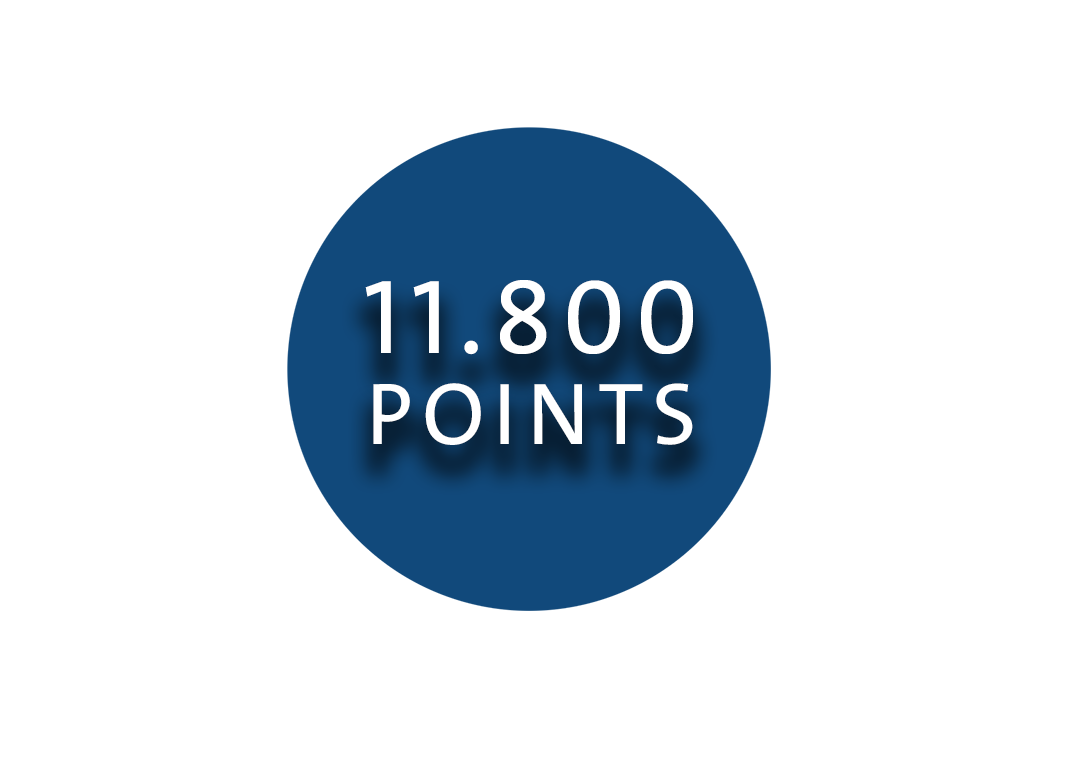
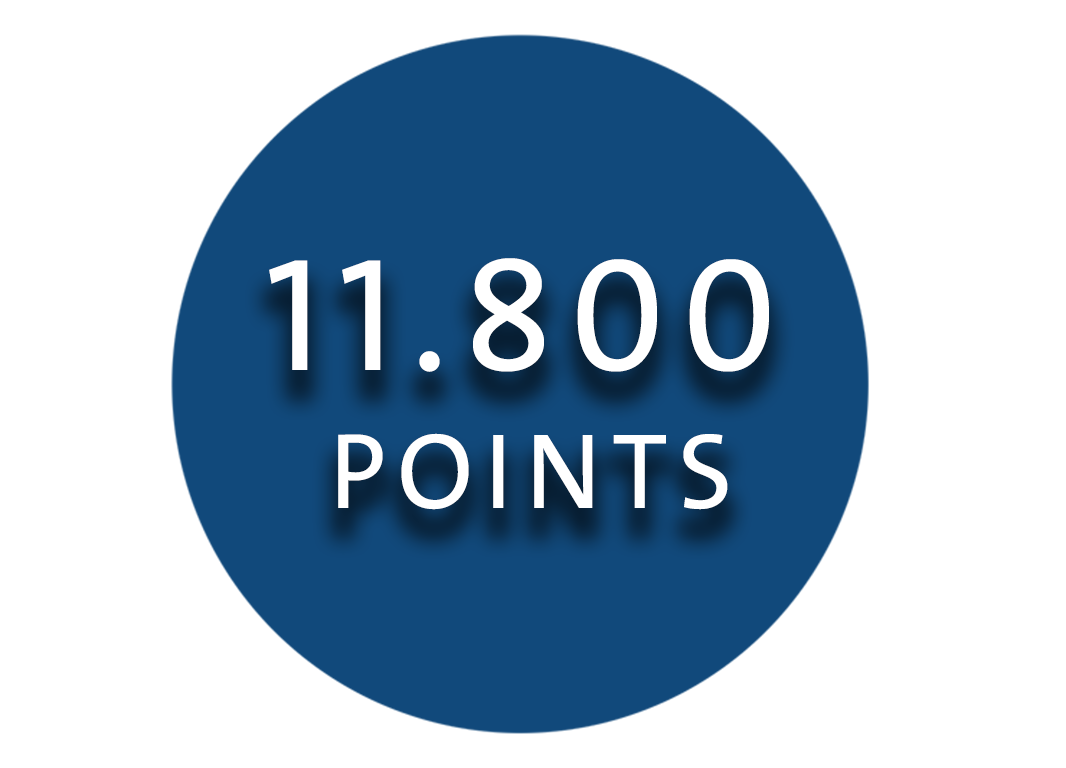
profile

diff --git a/sass/style.scss b/sass/style.scss
@@ -41,15 +41,16 @@ p {
 
 // PROFILE 
 :root {
-    --buttonColor: #6eb556;
+    --buttonGreen: #6eb556;
+    --buttonBlue: #3386C3;
 }
 
 .profile{
     float: right;
     background-color: #e4e4e4;
-    margin-top: 2%;
+    margin-top: -5px;
     width: 40%;
-    height: 650px;
+    height: 688px;
     &__blue {
         height: auto;
         background-color: #11497b;
@@ -94,10 +95,12 @@ p {
         cursor: pointer;
         letter-spacing: 1px;
         color: white;
-        background-color: #11497b;
-        
+        background-color: #3386C3;
         margin: 3%;
         margin-left: 40%;
+    }
+    &__seeall:hover {
+        background-color: #0068b4;
     }
     &__arrow {
         border: solid white;
@@ -108,16 +111,16 @@ p {
         -webkit-transform: rotate(45deg);
         margin-left: 5%;
     }
-     &__point{
+     &__points{
         margin: 30px;
-        font-size: 30px;
+        font-size: 30px; 
     }
     &__amount {
-        font-family: head-font;
-        font-size: 20px;  
+        width: 25%;
+        float: right;
     }
-     &__button {
-        margin-top: 7%;
+     &__buttonDonate {
+        margin-top: 6%;
         width: 135px;
         font-size: 14px; 
         color: white;
@@ -126,30 +129,49 @@ p {
         cursor: pointer; //musen ændres til en lille hånd
         letter-spacing: 1px; 
         //border: none;
-        margin-left: 5%;
-         
+        margin-left: 10px;
         position: relative; // arrow
-        background-color: var(--buttonColor);
+        background-color: var(--buttonGreen);
     }
-    &__button:hover {
-        --buttonColor: #4aa22c;
-        background-color: var(--buttonColor);
+     &__buttonDonate:hover {
+        --buttonGreen: #4aa22c;
+        background-color: var(--buttonGreen);
+    }
+    &__buttonDonate:after {
+        left: 100%;
+        top: 50%;
+        border: solid transparent;
+        content: "";
+        position: absolute; 
+        border-width: 18px;
+        margin-top: -18px;
+        border-left-color: var(--buttonGreen);
+    }
+    &__buttonPoint {
+        margin-top: 6%;
+        margin-right: 10px;;
+        width: 135px;
+        font-size: 14px; 
+        color: white;
+        padding: 9px; 
+        font-family: head-font;
+        cursor: pointer;
+        letter-spacing: 1px; 
+        margin-left: 10px;
+        background-color: var(--buttonBlue);
+    }
+    &__buttonPoint:hover {
+        --buttonBlue: #0068b4;
+        background-color: var(--buttonBlue);
     }
 }
 
-.donate:after {
-    left: 100%;
-    top: 50%;
-    border: solid transparent;
-    content: "";
-    position: absolute;
-    //border-radius: 5px; 
-    
-    border-left-color: #6eb556;
-    border-width: 18px;
-    margin-top: -18px;
-        //border-radius: 5px;
-    border-left-color: var(--buttonColor);
+.try {
+    display: inline-block;
+}
+
+.point {
+    display: inline-block;
 }
 
 // SLIDER JUMP IN START//
@@ -367,17 +389,6 @@ p {
 	cursor:pointer;  
 	color: white;
 	border-bottom: 4px solid #127bbd;
-}
-
-/* ---- Badges styles  ----  */
-
-.badge {
-	width: 17%;
-	margin: 20px;
-}
-
-.row {
-	margin: 20px;
 }
 
 

diff --git a/css/style.css b/css/style.css
@@ -27,14 +27,15 @@ p {
     width: 100%; }
 
 :root {
-  --buttonColor: #6eb556; }
+  --buttonGreen: #6eb556;
+  --buttonBlue: #3386C3; }
 
 .profile {
   float: right;
   background-color: #e4e4e4;
-  margin-top: 2%;
+  margin-top: -5px;
   width: 40%;
-  height: 650px; }
+  height: 688px; }
   .profile__blue {
     height: auto;
     background-color: #11497b;
@@ -72,9 +73,11 @@ p {
     cursor: pointer;
     letter-spacing: 1px;
     color: white;
-    background-color: #11497b;
+    background-color: #3386C3;
     margin: 3%;
     margin-left: 40%; }
+  .profile__seeall:hover {
+    background-color: #0068b4; }
   .profile__arrow {
     border: solid white;
     border-width: 0 3px 3px 0;
@@ -83,14 +86,14 @@ p {
     transform: rotate(45deg);
     -webkit-transform: rotate(45deg);
     margin-left: 5%; }
-  .profile__point {
+  .profile__points {
     margin: 30px;
     font-size: 30px; }
   .profile__amount {
-    font-family: head-font;
-    font-size: 20px; }
-  .profile__button {
-    margin-top: 7%;
+    width: 25%;
+    float: right; }
+  .profile__buttonDonate {
+    margin-top: 6%;
     width: 135px;
     font-size: 14px;
     color: white;
@@ -98,23 +101,42 @@ p {
     font-family: head-font;
     cursor: pointer;
     letter-spacing: 1px;
-    margin-left: 5%;
+    margin-left: 10px;
     position: relative;
-    background-color: var(--buttonColor); }
-  .profile__button:hover {
-    --buttonColor: #4aa22c;
-    background-color: var(--buttonColor); }
+    background-color: var(--buttonGreen); }
+  .profile__buttonDonate:hover {
+    --buttonGreen: #4aa22c;
+    background-color: var(--buttonGreen); }
+  .profile__buttonDonate:after {
+    left: 100%;
+    top: 50%;
+    border: solid transparent;
+    content: "";
+    position: absolute;
+    border-width: 18px;
+    margin-top: -18px;
+    border-left-color: var(--buttonGreen); }
+  .profile__buttonPoint {
+    margin-top: 6%;
+    margin-right: 10px;
+    width: 135px;
+    font-size: 14px;
+    color: white;
+    padding: 9px;
+    font-family: head-font;
+    cursor: pointer;
+    letter-spacing: 1px;
+    margin-left: 10px;
+    background-color: var(--buttonBlue); }
+  .profile__buttonPoint:hover {
+    --buttonBlue: #0068b4;
+    background-color: var(--buttonBlue); }
 
-.donate:after {
-  left: 100%;
-  top: 50%;
-  border: solid transparent;
-  content: "";
-  position: absolute;
-  border-left-color: #6eb556;
-  border-width: 18px;
-  margin-top: -18px;
-  border-left-color: var(--buttonColor); }
+.try {
+  display: inline-block; }
+
+.point {
+  display: inline-block; }
 
 #hi {
   max-width: 790px;
@@ -226,8 +248,11 @@ p {
 .timeframe {
   margin: 20px; }
 
+.radiobtn {
   display: inline-block; }
 
+.radio {
+  margin: 20px; }
 
 #topics {
   width: 100%;
@@ -285,14 +310,6 @@ p {
   cursor: pointer;
   color: white;
   border-bottom: 4px solid #127bbd; }
-
-/* ---- Badges styles  ----  */
-.badge {
-  width: 17%;
-  margin: 20px; }
-
-.row {
-  margin: 20px; }
 
 /* Element filtering  ---- w3schools   */
 .container {

diff --git a/index.html b/index.html
@@ -31,7 +31,7 @@
             <h2 class="profile__title">Whole Saler | Brødrene Dahl</h2>
         </div>
         
-      <h1 class="profile__achievements">Achievements</h1>
+      <h1 class="profile__achievements">Badges</h1>
         
 	  <div class="profile__row">
 	  		<img class="profile__badge" src="badges/blue-badge.png" alt="badge">
@@ -44,18 +44,18 @@
 			 <img class="profile__badge" src="badges/orangedia-badge.png" alt="badge">
 	  </div>
         
-        <button class="profile__seeall">See All <i class="profile__arrow"></i></button>
+        <button class="profile__seeall">See All<i class="profile__arrow"></i></button>
         
         <hr>
-	   
-   
-        <!-- <h1 class="profile__point">Points</h1> -->
-        <h2 class="profile__amount">11.400 points</h2>
-        <h2 class="profile__amount">23.500 donated points</h2>  
+
+        <h1 class="profile__points point">Points</h1>
+        <img class="profile__amount point" src="images/points.png" alt="">
+        <img class="profile__amount point" src="images/donatedpoints.png" alt="">
         
-      
-       <a href="#"> <button class="profile__button">POINTSHOP</button> </a>
-       <a href="#"> <button class="profile__button donate">DONATE NOW</button> </a>
+        <div class="try">
+        <button class="profile__buttonPoint"> <a href="#"></a> POINTSHOP</button> 
+        <button class="profile__buttonDonate"> <a href="#"></a>DONATE NOW</button>
+            </div>
     </section>
     
         
